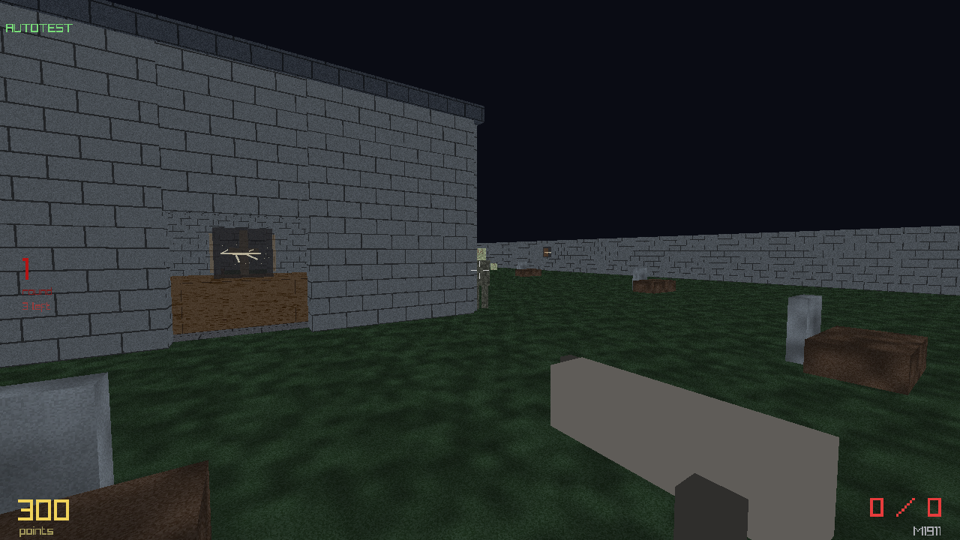
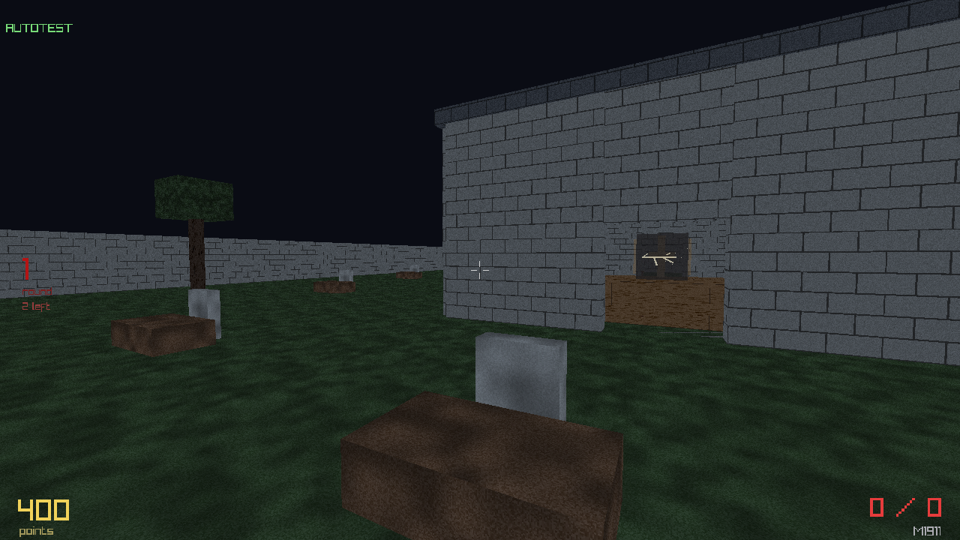
v0.1.1: fix audio, mouse look and viewmodel; prefer system raylib 6.2
- Audio: raylib 6.x requires an explicit InitAudioDevice() before any
  LoadSound; without it every sound failed with 'Failed to create data
  conversion pipeline'. Device is now initialized at startup (and closed
  on shutdown), invalid sounds are skipped safely, menu music guarded.
- Mouse: horizontal look was inverted (yaw moved opposite to the mouse);
  yaw now follows the mouse. Vertical was already standard non-inverted.
- Viewmodel: gun boxes were drawn world-axis-aligned, so the weapon
  appeared to rotate/swing away when looking around. It is now drawn in
  camera space (basis-rotated unit-cube mesh) and stays view-locked.
- Build: Makefile and CMake now prefer a system-installed raylib 6.2+
  (pkg-config, then /usr[/local] header+lib detection with version check
  from RAYLIB_VERSION_MAJOR/_MINOR) and only build the bundled clone when
  no compatible install exists. Force with RAYLIB_MODE=bundled.
- CI: new linux-system-raylib job exercises the system-install path.
- str_copy helper rewritten warning-free at -O2; version bumped to 0.1.1.

diff --git a/src/player.c b/src/player.c
@@ -500,11 +500,14 @@ void player_update(float dt, bool input_enabled)
     if (g_player.hp <= 0) { player_update_camera(dt); return; }
 
     // ---- look ----
+    // Convention: forward = (-cos(yaw)cos(pitch), sin(pitch), -sin(yaw)cos(pitch)),
+    // so INCREASING yaw turns the view to the right -> mouse right adds to yaw.
+    // Mouse up (md.y < 0) increases pitch -> looks up (standard, non-inverted).
     if (input_enabled && !g.autotest)
     {
         Vector2 md = GetMouseDelta();
         float sens = 0.0022f * g_settings.sensitivity;
-        g_player.yaw   -= md.x * sens;
+        g_player.yaw   += md.x * sens;
         g_player.pitch -= md.y * sens * (g_settings.invert_y ? -1.0f : 1.0f);
         g_player.pitch = clampf(g_player.pitch, CAMERA_MIN_PITCH, CAMERA_MAX_PITCH);
     }
@@ -610,19 +613,84 @@ void player_update(float dt, bool input_enabled)
 
 // ---------------------------------------------------------------------------
 // Viewmodel (procedural, box-built; silhouette varies by weapon class)
+// Drawn in CAMERA space (rotates with the view) via a shared unit cube mesh,
+// so the weapon stays locked to the screen like a proper FPS viewmodel.
 // ---------------------------------------------------------------------------
-static void vm_box(Vector3 at, Vector3 size, Color tint, float tilt_z)
+static Mesh s_vm_cube = { 0 };
+static bool s_vm_ready = false;
+static Material s_vm_mat = { 0 };
+
+static void vm_ensure(void)
 {
-    (void)tilt_z;
-    // convert camera-space offset to world and draw a colored box
+    if (s_vm_ready) return;
+    static Vector3 verts[24], norms[24];
+    static Vector2 uvs[24];
+    static unsigned short idx[36];
+    struct { Vector3 n; Vector3 a, b, c, d; } faces[6] = {
+        { {0,0, 1}, {-0.5f,-0.5f, 0.5f}, { 0.5f,-0.5f, 0.5f}, { 0.5f, 0.5f, 0.5f}, {-0.5f, 0.5f, 0.5f} },
+        { {0,0,-1}, { 0.5f,-0.5f,-0.5f}, {-0.5f,-0.5f,-0.5f}, {-0.5f, 0.5f,-0.5f}, { 0.5f, 0.5f,-0.5f} },
+        { { 1,0,0}, { 0.5f,-0.5f, 0.5f}, { 0.5f,-0.5f,-0.5f}, { 0.5f, 0.5f,-0.5f}, { 0.5f, 0.5f, 0.5f} },
+        { {-1,0,0}, {-0.5f,-0.5f,-0.5f}, {-0.5f,-0.5f, 0.5f}, {-0.5f, 0.5f, 0.5f}, {-0.5f, 0.5f,-0.5f} },
+        { {0, 1,0}, {-0.5f, 0.5f, 0.5f}, { 0.5f, 0.5f, 0.5f}, { 0.5f, 0.5f,-0.5f}, {-0.5f, 0.5f,-0.5f} },
+        { {0,-1,0}, {-0.5f,-0.5f,-0.5f}, { 0.5f,-0.5f,-0.5f}, { 0.5f,-0.5f, 0.5f}, {-0.5f,-0.5f, 0.5f} },
+    };
+    for (int i = 0; i < 6; i++)
+    {
+        Vector3 *v = &verts[i * 4];
+        v[0] = faces[i].a; v[1] = faces[i].b; v[2] = faces[i].c; v[3] = faces[i].d;
+        for (int j = 0; j < 4; j++)
+        {
+            norms[i * 4 + j] = faces[i].n;
+            uvs[i * 4 + j] = (Vector2){ (j == 1 || j == 2) ? 1.0f : 0.0f,
+                                        (j >= 2) ? 1.0f : 0.0f };
+        }
+        unsigned short *ix = &idx[i * 6];
+        ix[0] = i * 4 + 0; ix[1] = i * 4 + 1; ix[2] = i * 4 + 2;
+        ix[3] = i * 4 + 0; ix[4] = i * 4 + 2; ix[5] = i * 4 + 3;
+    }
+    Mesh m = { 0 };
+    m.vertexCount = 24;
+    m.triangleCount = 12;
+    m.vertices = RL_MALLOC(24 * sizeof(Vector3));
+    m.normals = RL_MALLOC(24 * sizeof(Vector3));
+    m.texcoords = RL_MALLOC(24 * sizeof(Vector2));
+    m.indices = RL_MALLOC(36 * sizeof(unsigned short));
+    memcpy(m.vertices, verts, sizeof(verts));
+    memcpy(m.normals, norms, sizeof(norms));
+    memcpy(m.texcoords, uvs, sizeof(uvs));
+    memcpy(m.indices, idx, sizeof(idx));
+    UploadMesh(&m, false);
+    s_vm_cube = m;
+
+    s_vm_mat = LoadMaterialDefault();   // diffuse = white texture -> tint shows as solid colour
+    s_vm_ready = true;
+}
+
+// draw a box in camera space: `at` is right/up/forward from the eye,
+// `size` its extents; the box orientation follows the camera basis
+static void vm_box(Vector3 at, Vector3 size, Color tint)
+{
+    vm_ensure();
+
     Vector3 f = Vector3Normalize(Vector3Subtract(g_camera.target, g_camera.position));
     Vector3 r = Vector3Normalize(Vector3CrossProduct(f, (Vector3){ 0, 1, 0 }));
     Vector3 u = Vector3CrossProduct(r, f);
-    Vector3 world = g_camera.position;
-    world = Vector3Add(world, Vector3Scale(r, at.x));
-    world = Vector3Add(world, Vector3Scale(u, at.y));
-    world = Vector3Add(world, Vector3Scale(f, at.z));
-    DrawCubeV(world, size, tint);
+
+    // basis rotation: local X -> r, local Y -> u, local Z -> f (column-major)
+    Matrix b;
+    b.m0 = r.x;  b.m4 = u.x;  b.m8  = f.x;  b.m12 = 0;
+    b.m1 = r.y;  b.m5 = u.y;  b.m9  = f.y;  b.m13 = 0;
+    b.m2 = r.z;  b.m6 = u.z;  b.m10 = f.z;  b.m14 = 0;
+    b.m3 = 0;    b.m7 = 0;    b.m11 = 0;    b.m15 = 1;
+
+    // world = eye + B * (at + S*v)
+    Matrix mat = MatrixMultiply(
+        MatrixTranslate(g_camera.position.x, g_camera.position.y, g_camera.position.z),
+        MatrixMultiply(b, MatrixMultiply(MatrixTranslate(at.x, at.y, at.z),
+                                         MatrixScale(size.x, size.y, size.z))));
+
+    s_vm_mat.maps[MATERIAL_MAP_DIFFUSE].color = tint;
+    DrawMesh(s_vm_cube, s_vm_mat, mat);
 }
 
 void player_draw_viewmodel(float dt)
@@ -655,38 +723,38 @@ void player_draw_viewmodel(float dt)
     Color wood = (Color){ 110, 72, 44, 255 };
 
     // gun body
-    vm_box((Vector3){ right, down, fwd }, (Vector3){ 0.09f, 0.12f, def->vm_len }, tint, 0);
+    vm_box((Vector3){ right, down, fwd }, (Vector3){ 0.09f, 0.12f, def->vm_len }, tint);
     // barrel
     vm_box((Vector3){ right, down + 0.02f, fwd + def->vm_len * 0.5f },
-           (Vector3){ def->vm_barrel, def->vm_barrel, def->vm_len * 0.7f }, dark, 0);
+           (Vector3){ def->vm_barrel, def->vm_barrel, def->vm_len * 0.7f }, dark);
 
     // class-specific dressing
     switch (def->cls)
     {
         case WCLASS_PISTOL:
-            vm_box((Vector3){ right, down - 0.09f, fwd - 0.12f }, (Vector3){ 0.05f, 0.14f, 0.06f }, dark, 0);
+            vm_box((Vector3){ right, down - 0.09f, fwd - 0.12f }, (Vector3){ 0.05f, 0.14f, 0.06f }, dark);
             break;
         case WCLASS_SMG:
-            vm_box((Vector3){ right, down - 0.10f, fwd - 0.02f }, (Vector3){ 0.05f, 0.18f, 0.06f }, dark, 0);
+            vm_box((Vector3){ right, down - 0.10f, fwd - 0.02f }, (Vector3){ 0.05f, 0.18f, 0.06f }, dark);
             break;
         case WCLASS_RIFLE:
         case WCLASS_SNIPER:
-            vm_box((Vector3){ right, down - 0.07f, fwd - 0.25f }, (Vector3){ 0.06f, 0.10f, 0.30f }, wood, 0);
+            vm_box((Vector3){ right, down - 0.07f, fwd - 0.25f }, (Vector3){ 0.06f, 0.10f, 0.30f }, wood);
             if (def->cls == WCLASS_SNIPER)
-                vm_box((Vector3){ right, down + 0.09f, fwd + 0.05f }, (Vector3){ 0.05f, 0.05f, 0.16f }, dark, 0);
+                vm_box((Vector3){ right, down + 0.09f, fwd + 0.05f }, (Vector3){ 0.05f, 0.05f, 0.16f }, dark);
             break;
         case WCLASS_SHOTGUN:
             vm_box((Vector3){ right, down - 0.06f, fwd + def->vm_len * 0.4f },
-                   (Vector3){ def->vm_barrel * 1.6f, def->vm_barrel * 1.6f, 0.3f }, dark, 0);
-            vm_box((Vector3){ right, down - 0.07f, fwd - 0.25f }, (Vector3){ 0.06f, 0.10f, 0.30f }, wood, 0);
+                   (Vector3){ def->vm_barrel * 1.6f, def->vm_barrel * 1.6f, 0.3f }, dark);
+            vm_box((Vector3){ right, down - 0.07f, fwd - 0.25f }, (Vector3){ 0.06f, 0.10f, 0.30f }, wood);
             break;
         case WCLASS_LMG:
-            vm_box((Vector3){ right, down - 0.12f, fwd }, (Vector3){ 0.14f, 0.14f, 0.18f }, dark, 0);
+            vm_box((Vector3){ right, down - 0.12f, fwd }, (Vector3){ 0.14f, 0.14f, 0.18f }, dark);
             break;
         case WCLASS_SPECIAL:
         {
             Color glow = (Color){ 90, 220, 130, 255 };
-            vm_box((Vector3){ right, down + 0.03f, fwd + 0.1f }, (Vector3){ 0.12f, 0.06f, 0.25f }, glow, 0);
+            vm_box((Vector3){ right, down + 0.03f, fwd + 0.1f }, (Vector3){ 0.12f, 0.06f, 0.25f }, glow);
         }
             break;
         default: break;
@@ -694,5 +762,5 @@ void player_draw_viewmodel(float dt)
 
     // hands
     vm_box((Vector3){ right - 0.02f, down - 0.14f, fwd - 0.18f }, (Vector3){ 0.08f, 0.08f, 0.14f },
-           (Color){ 205, 170, 140, 255 }, 0);
+           (Color){ 205, 170, 140, 255 });
 }

diff --git a/src/assets.c b/src/assets.c
@@ -84,8 +84,17 @@ static void load_sound_dir(void)
     if (FileExists(music_path))
     {
         g_assets.menu_music = LoadMusicStream(music_path);
-        g_assets.has_menu_music = true;
-        SetMusicVolume(g_assets.menu_music, 0.45f);
+        if (IsMusicValid(g_assets.menu_music))
+        {
+            g_assets.has_menu_music = true;
+            SetMusicVolume(g_assets.menu_music, 0.45f);
+        }
+        else
+        {
+            TraceLog(LOG_WARNING, "ASSETS: menu music stream could not be created");
+            UnloadMusicStream(g_assets.menu_music);
+            memset(&g_assets.menu_music, 0, sizeof(Music));
+        }
     }
 }
 
@@ -131,6 +140,8 @@ void sfx_play(const char *name, float volume, float pitch)
         TraceLog(LOG_WARNING, "ASSETS: sound '%s' missing", name);
         return;
     }
+    // sound failed to create (e.g. audio device down) -> skip silently
+    if (!IsSoundValid(*s)) return;
     SetSoundVolume(*s, clampf(volume * g_settings.volume_sfx, 0.0f, 1.0f));
     SetSoundPitch(*s, pitch);
     PlaySound(*s);
@@ -146,13 +157,14 @@ void sfx_play_at(const char *name, Vector3 at, float base_vol)
 
 void assets_menu_music(bool play)
 {
-    if (!g_assets.has_menu_music) return;
+    if (!g_assets.has_menu_music || !IsMusicValid(g_assets.menu_music)) return;
     if (play && !IsMusicStreamPlaying(g_assets.menu_music)) PlayMusicStream(g_assets.menu_music);
     else if (!play && IsMusicStreamPlaying(g_assets.menu_music)) StopMusicStream(g_assets.menu_music);
 }
 
 void assets_menu_music_update(void)
 {
-    if (g_assets.has_menu_music && IsMusicStreamPlaying(g_assets.menu_music))
+    if (g_assets.has_menu_music && IsMusicValid(g_assets.menu_music) &&
+        IsMusicStreamPlaying(g_assets.menu_music))
         UpdateMusicStream(g_assets.menu_music);
 }

diff --git a/src/game.h b/src/game.h
@@ -30,7 +30,7 @@ bool cfg_bool(const char *v);
 // Constants
 // ---------------------------------------------------------------------------
 #define APP_NAME             "Dead Arrival"
-#define APP_VERSION          "0.1.0"
+#define APP_VERSION          "0.1.1"
 #define APP_TAGLINE          "A round-based survival FPS"
 #define ASSETS_DIR           "assets"
 
@@ -105,11 +105,14 @@ float v3_dist_xz(Vector3 a, Vector3 b);       // horizontal distance
 float angle_lerp(float a, float b, float t);  // shortest-path yaw lerp
 
 // bounded string copy (always NUL-terminated, no format-truncation noise)
+// note: src must be a regular NUL-terminated C string (all callers pass one)
 static inline void str_copy(char *dst, size_t dstlen, const char *src)
 {
     if (dstlen == 0) return;
-    strncpy(dst, src, dstlen - 1);
-    dst[dstlen - 1] = '\0';
+    size_t n = strlen(src);
+    if (n >= dstlen) n = dstlen - 1;
+    memcpy(dst, src, n);
+    dst[n] = '\0';
 }
 
 // ---------------------------------------------------------------------------

diff --git a/src/main.c b/src/main.c
@@ -105,8 +105,20 @@ static bool game_boot(bool hidden)
 
     InitWindow(1280, 720, APP_NAME " v" APP_VERSION);
     SetTargetFPS(60);
-    SetMasterVolume(g_settings.volume_master);
     SetTraceLogLevel(LOG_INFO);
+
+    // raylib 6.x does NOT auto-initialize the audio device: without this call
+    // every LoadSound fails ("Failed to create data conversion pipeline").
+    InitAudioDevice();
+    if (IsAudioDeviceReady())
+    {
+        TraceLog(LOG_INFO, "GAME: audio device ready");
+        SetMasterVolume(g_settings.volume_master);
+    }
+    else
+    {
+        TraceLog(LOG_WARNING, "GAME: audio device unavailable, running silent");
+    }
 
     assets_load_all();
 
@@ -139,6 +151,7 @@ static void game_shutdown(void)
 {
     if (g.map_loaded) map_unload(&g.map);
     assets_unload_all();
+    if (IsAudioDeviceReady()) CloseAudioDevice();
     CloseWindow();
 }
 

diff --git a/README.md b/README.md
@@ -69,6 +69,13 @@ make        # builds build/dead_arrival
 ./build/dead_arrival
 ```
 
+**Already have raylib 6.2+ installed system-wide?** You don't need `make deps`:
+the Makefile checks for a system raylib (via `pkg-config`, then the standard
+`/usr[/local]` prefixes) and uses it automatically — the bundled copy is only
+built when no compatible 6.2+ system install exists. Force a specific one with
+`make RAYLIB_MODE=bundled` (or `system-pkgconfig` / `system-header`).
+CMake behaves the same way (`find_package(raylib 6.2)` first, FetchContent fallback).
+
 ### Option B: CMake
 
 ```sh
